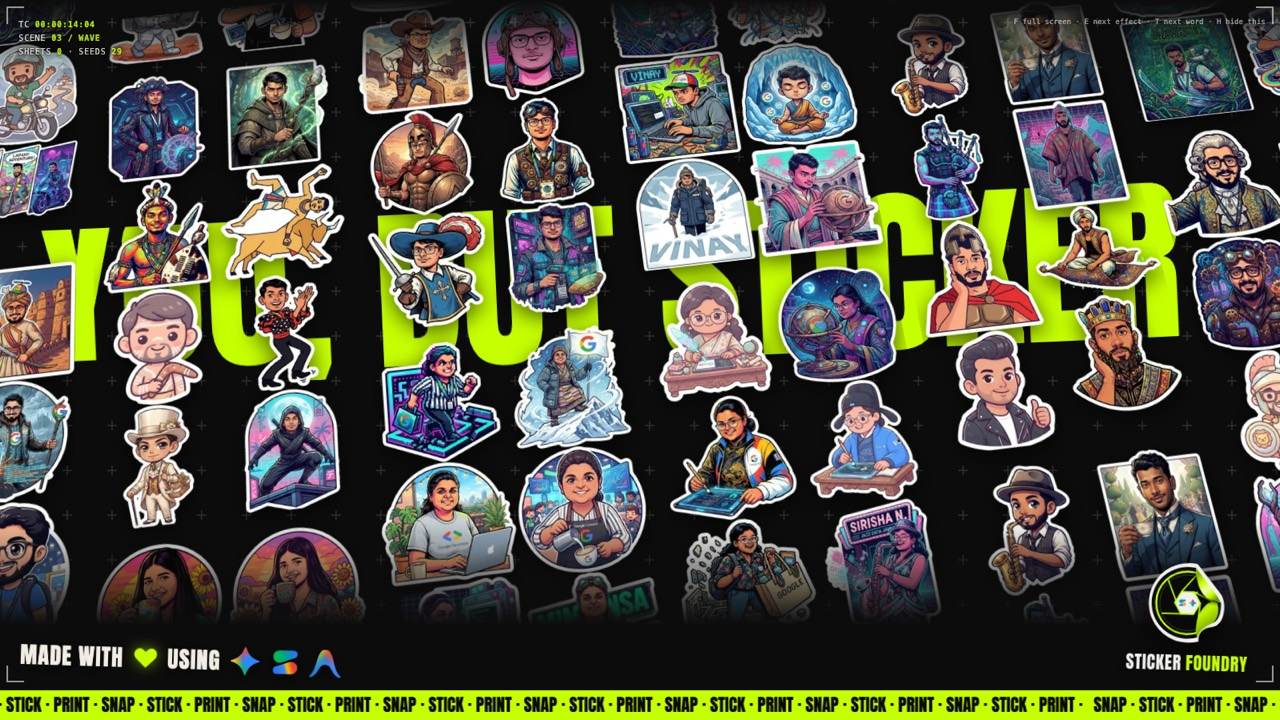
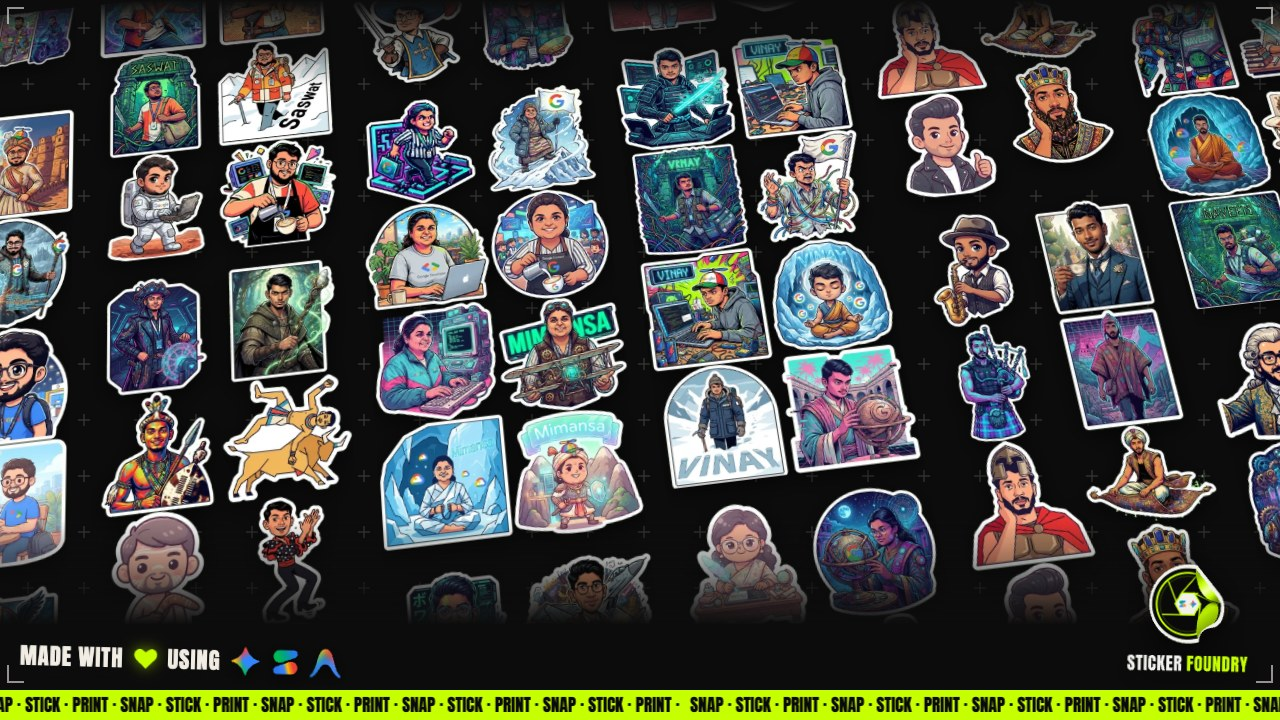
Download page for Sticker Foundry 4.1.5

diff --git a/GUIDE.md b/GUIDE.md
@@ -47,7 +47,7 @@ prints. It uses one real sheet, so do this once.
 
 <img src="images/guide/console-tour.png" alt="The Sticker Foundry console: printer cards, booth, queue, sheet background, and Ask in the header" width="900">
 
-*The console. Header: Admin, Set up, Wall, Wall seeds, Quit, Ask and the light/dark switch.*
+*The console. Header: Admin, Set up, Wall (with a folder and a copy icon beside it), Quit, Ask and the light/dark switch.*
 
 - **Printers:** one card each. **Ready** is good.
 - **Queue:** waiting, printing now and completed sheets.
@@ -56,8 +56,8 @@ prints. It uses one real sheet, so do this once.
 - **Where's my print?** finds one guest's sheet.
 - **Sheet background:** the colour or picture behind the stickers.
 - **Ask:** the helper, top right.
-- **Wall** and **Wall seeds:** the sticker wall for a screen at the booth (see below).
-- **Footer:** pinned to the bottom with a just-for-fun game above it. Click the sticker to play. Along the very bottom, a green SNAP · STICK · PRINT strip scrolls by. It is only for show.
+- **Wall:** the sticker wall for a screen at the booth (see below). The folder icon beside it opens your own starter sheets, and the copy icon copies the wall's link.
+- **Footer:** pinned to the bottom with a just-for-fun game above it. Click the sticker to play.
 
 ## The sticker wall
 
@@ -71,10 +71,10 @@ Gemini, AI Studio and Antigravity logos comes in. The Sticker Foundry logo sits 
 
 - Press **Wall** at the top of the console. It opens in the Mac's browser.
 - Drag that window to the booth screen and press **F** for full screen.
-- A device on the same Wi-Fi can open this Mac's address followed by `/wall`.
+- For a screen on another device, press the copy icon beside **Wall** and open that link there, on the same Wi-Fi.
 - It shows this booth's own sheets first, then your own starter sheets, then ours, up to 30 sheets.
   Real sheets replace the starter ones as they arrive.
-- To add your own starter sheets, press **Wall seeds** and drop PNG or WebP files with a
+- To add your own starter sheets, press the folder icon beside **Wall** and drop PNG or WebP files with a
   transparent background into the folder. A flat picture, such as a JPEG, is skipped, and the
   button tells you which files.
 - A sheet with no transparent background still prints. It just does not show on the wall.

diff --git a/GUIDE-FOR-AI.md b/GUIDE-FOR-AI.md
@@ -145,17 +145,17 @@ Where: **Open incoming folder**
 
 Asked as: sticker wall, wall, show the wall, second screen, big screen, tv
 
-Press Wall at the top. It opens the sticker wall in your browser: scrolling columns of this booth's sheets. Drag it to the screen at the booth and press F for full screen. A device on the same Wi-Fi can open this Mac's address followed by /wall.
+Press Wall at the top. It opens the sticker wall in your browser: scrolling columns of this booth's sheets. Drag it to the screen at the booth and press F for full screen. For a screen on another device, press the copy icon beside Wall and open that link there, on the same Wi-Fi.
 
-Where: **Wall**
+Where: **Wall**; **Copy the wall's link**
 
 ### Put your own starter sheets on the wall
 
 Asked as: wall seeds, seed sheets, starter sheets, own sheets on the wall, wall folder, add sheets to the wall
 
-Press Wall seeds and drop your own sheets in the folder: PNG or WebP with a transparent background. A flat picture such as a JPEG is skipped, and the button names it. Yours show first, the app's starter sheets fill the rest, and the booth's own sheets replace them as they arrive.
+Press the folder icon beside Wall and drop your own sheets in the folder: PNG or WebP with a transparent background. A flat picture such as a JPEG is skipped, and you are told which. Yours show first, the app's starter sheets fill the rest, and the booth's own sheets replace them as they arrive.
 
-Where: **Wall seeds**
+Where: **The folder icon beside Wall**
 
 ### A guest asks where their print is
 

diff --git a/README.md b/README.md
@@ -151,12 +151,12 @@ the guest fixes it and sends again.
 For a screen at the booth. Press **Wall** at the top of the console: it opens in your browser,
 showing this booth's sticker sheets in scrolling columns, with now and then a giant word behind
 them. Drag that window to the screen and press
-**F** for full screen. A device on the same Wi-Fi can open this Mac's address followed by `/wall`.
+**F** for full screen. For a screen on another device, press the copy icon beside **Wall** and open that link there, on the same Wi-Fi.
 
 The wall shows up to 30 sheets. Until the booth has made that many of its own, the rest is
-filled with starter sheets. To use your own, press **Wall seeds** and drop PNG or WebP files with a transparent
+filled with starter sheets. To use your own, press the folder icon beside **Wall** and drop PNG or WebP files with a transparent
 background into the folder. Yours show first, ours fill what is left, and the booth's own
-sheets replace them as they arrive. A flat picture, such as a JPEG, is skipped, and the button names the files it skipped.
+sheets replace them as they arrive. A flat picture, such as a JPEG, is skipped, and the folder button names the files it skipped.
 
 ## When something goes wrong
 
